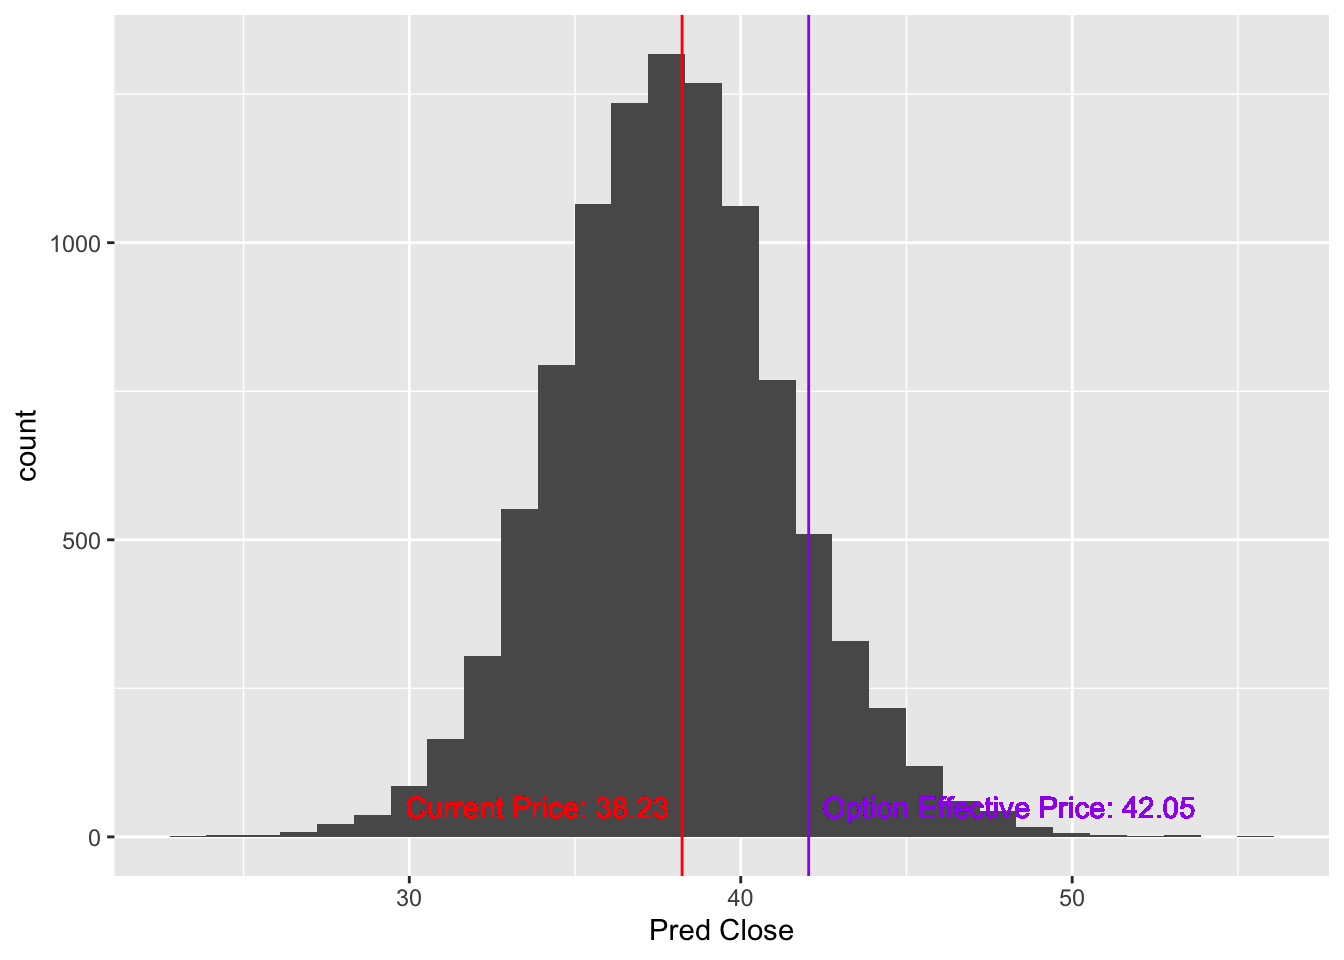
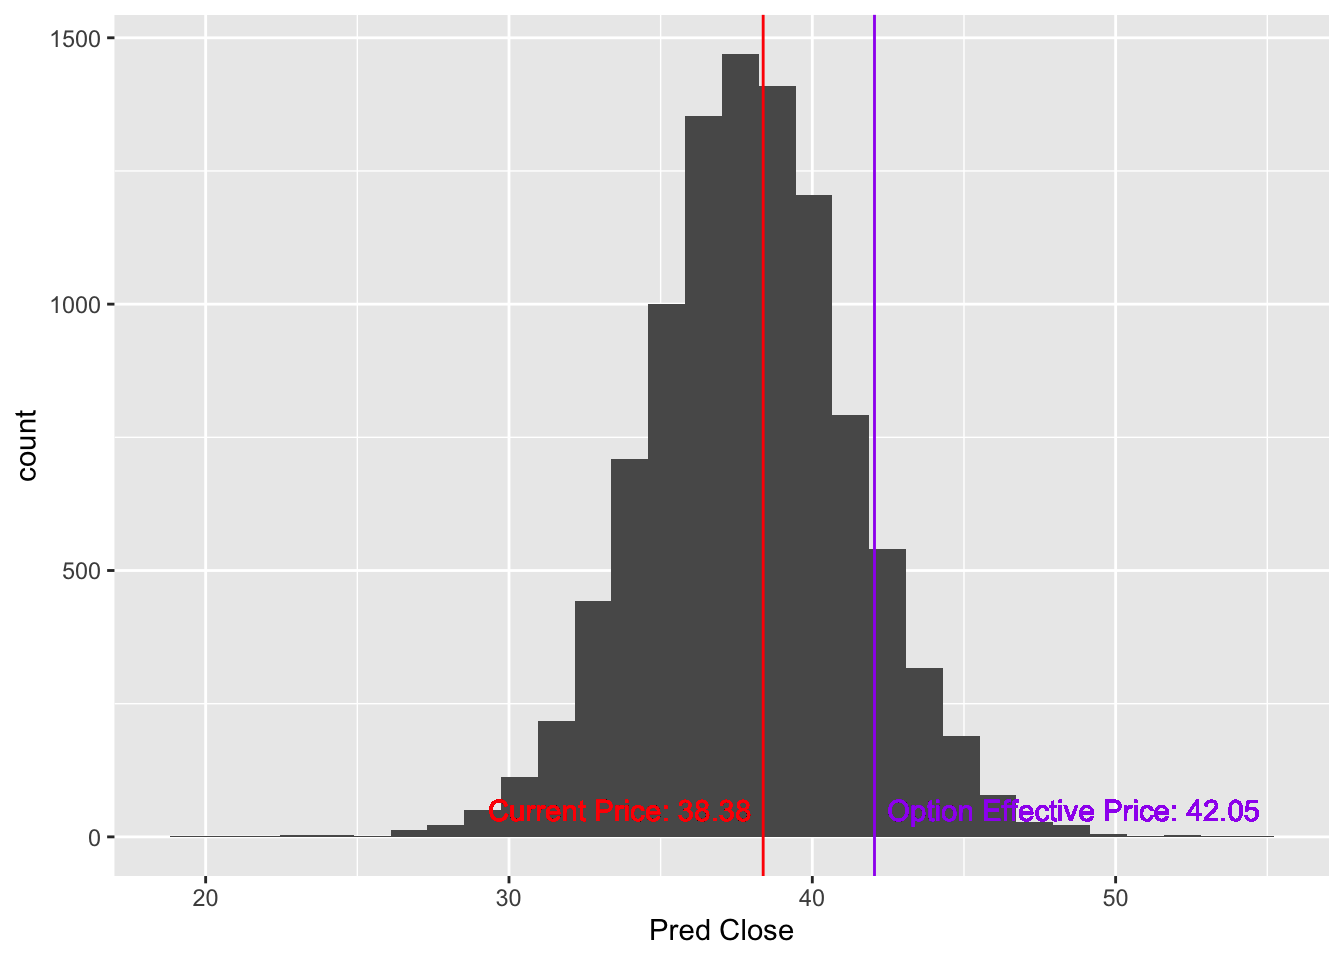
progress on explanations

diff --git a/options_mc/options_mc_book/_book/mc.html b/options_mc/options_mc_book/_book/mc.html
@@ -23,7 +23,7 @@
 <meta name="author" content="Jake Rozran" />
 
 
-<meta name="date" content="2023-04-11" />
+<meta name="date" content="2023-04-12" />
 
   <meta name="viewport" content="width=device-width, initial-scale=1" />
   <meta name="apple-mobile-web-app-capable" content="yes" />
@@ -76,15 +76,10 @@
 <li class="chapter" data-level="2" data-path="ev.html"><a href="ev.html"><i class="fa fa-check"></i><b>2</b> Calculating an Option’s Expected Value</a></li>
 <li class="chapter" data-level="3" data-path="mc.html"><a href="mc.html"><i class="fa fa-check"></i><b>3</b> The Monte Carlo Engine</a>
 <ul>
-<li class="chapter" data-level="3.1" data-path="mc.html"><a href="mc.html#a-quick-reminder-on-what-the-monte-carlo-simulation-does"><i class="fa fa-check"></i><b>3.1</b> A Quick Reminder on what the Monte Carlo Simulation Does</a>
+<li class="chapter" data-level="3.1" data-path="mc.html"><a href="mc.html#effective-price-and-being-in-the-money"><i class="fa fa-check"></i><b>3.1</b> Effective Price and Being In-The-Money</a>
 <ul>
-<li class="chapter" data-level="3.1.1" data-path="mc.html"><a href="mc.html#one-run-of-the-monte-carlo-siumlation"><i class="fa fa-check"></i><b>3.1.1</b> One Run of the Monte Carlo Siumlation</a></li>
-<li class="chapter" data-level="3.1.2" data-path="mc.html"><a href="mc.html#a-full-monte-carlo-simulation"><i class="fa fa-check"></i><b>3.1.2</b> A Full Monte Carlo Simulation</a></li>
-</ul></li>
-<li class="chapter" data-level="3.2" data-path="mc.html"><a href="mc.html#effective-price-and-being-in-the-money"><i class="fa fa-check"></i><b>3.2</b> Effective Price and Being In-The-Money</a>
-<ul>
-<li class="chapter" data-level="3.2.1" data-path="mc.html"><a href="mc.html#why-do-we-care-about-the-effective-price-instead-of-just-strike-price"><i class="fa fa-check"></i><b>3.2.1</b> Why do we care about the effective price (instead of just Strike Price)?</a></li>
-<li class="chapter" data-level="3.2.2" data-path="mc.html"><a href="mc.html#lets-look-at-an-example."><i class="fa fa-check"></i><b>3.2.2</b> Let’s look at an example.</a></li>
+<li class="chapter" data-level="3.1.1" data-path="mc.html"><a href="mc.html#why-do-we-care-about-the-effective-price-instead-of-just-strike-price"><i class="fa fa-check"></i><b>3.1.1</b> Why do we care about the effective price (instead of just Strike Price)?</a></li>
+<li class="chapter" data-level="3.1.2" data-path="mc.html"><a href="mc.html#lets-look-at-an-example."><i class="fa fa-check"></i><b>3.1.2</b> Let’s look at an example.</a></li>
 </ul></li>
 </ul></li>
 <li class="divider"></li>
@@ -109,40 +104,37 @@
             <section class="normal" id="section-">
 <div id="mc" class="section level1 hasAnchor" number="3">
 <h1><span class="header-section-number">3</span> The Monte Carlo Engine<a href="mc.html#mc" class="anchor-section" aria-label="Anchor link to header"></a></h1>
-<div id="a-quick-reminder-on-what-the-monte-carlo-simulation-does" class="section level2 hasAnchor" number="3.1">
-<h2><span class="header-section-number">3.1</span> A Quick Reminder on what the Monte Carlo Simulation Does<a href="mc.html#a-quick-reminder-on-what-the-monte-carlo-simulation-does" class="anchor-section" aria-label="Anchor link to header"></a></h2>
-<p>There’s a few things to note in a Monte Carlo simulation. In this case, we are
-talking about daily changes in a stock price. More specifically for this
-example, we are talking about daily price changes in Comcast stock (CMCSA).</p>
-<p>The Monte Carlo simulation is randomly picking (loosely from history - but that
-is beyond the depth of understanding needed here) what the percentage change in
-stock price will be for each day until the strike price. It is then repeating
-that simulation of what the stock price will do over and over. The beauty of
-this is that we get, hypothetically, a view of all possible outcomes for the
-stock up to the option’s maturity.</p>
-<div id="one-run-of-the-monte-carlo-siumlation" class="section level3 hasAnchor" number="3.1.1">
-<h3><span class="header-section-number">3.1.1</span> One Run of the Monte Carlo Siumlation<a href="mc.html#one-run-of-the-monte-carlo-siumlation" class="anchor-section" aria-label="Anchor link to header"></a></h3>
-<p>Show that here</p>
-</div>
-<div id="a-full-monte-carlo-simulation" class="section level3 hasAnchor" number="3.1.2">
-<h3><span class="header-section-number">3.1.2</span> A Full Monte Carlo Simulation<a href="mc.html#a-full-monte-carlo-simulation" class="anchor-section" aria-label="Anchor link to header"></a></h3>
-<p>Show that here</p>
-<ol style="list-style-type: decimal">
-<li><p>Show that a single price is random</p></li>
-<li><p>Show the whole monte</p></li>
-<li><p>Show the calculation of being in the money</p></li>
-<li><p>Show the probability of being in the money</p></li>
-</ol>
-</div>
-</div>
-<div id="effective-price-and-being-in-the-money" class="section level2 hasAnchor" number="3.2">
-<h2><span class="header-section-number">3.2</span> Effective Price and Being In-The-Money<a href="mc.html#effective-price-and-being-in-the-money" class="anchor-section" aria-label="Anchor link to header"></a></h2>
+<p>I am attempting to predict what the price of any stock will be at an options
+expiration date, some days from now. The Monte Carlo simulation allows me to
+create probabilities to different scenarios. To say that more precisely, the
+simulation allows me to know the probability that an option will be in-the-
+money on its expiration date.</p>
+<p>As an example, I will predict what the price of Comcast (CMCSA) will be 30 days
+from now.</p>
+<p>The simulation is given all of the price change data from CMCSA back to 2000. It
+calculates the daily price changes. The simulation then randomly picks from the
+historical pot of price changes what the stock will do tomorrow and tomorrow and
+tomorrow (and so on, up to the end date 30 days from now).</p>
+<p>INSERT SINGLE PATH GRAPH HERE.</p>
+<p>This gets you a single simulated possible path that stock could take for the
+next 30 days. It is unlikely - probably there is actually 0% chance - that the
+stock will actually follow that exact random path. Here’s the magic of the
+simulation: I then create 100,000 more random paths using the exact same
+technique.</p>
+<p>INSERT FULL MC GRAPH HERE.</p>
+<p>This full world of simulated price paths allows me to see the distribution of
+potential prices at the option expiration date. I now know the average, median,
+high, low, etc. price at the expiration date.</p>
+<p>More beautifully, I can calculate probabilities that a stock price will reach
+or exceed a strike price at a given options expiration date.</p>
+<div id="effective-price-and-being-in-the-money" class="section level2 hasAnchor" number="3.1">
+<h2><span class="header-section-number">3.1</span> Effective Price and Being In-The-Money<a href="mc.html#effective-price-and-being-in-the-money" class="anchor-section" aria-label="Anchor link to header"></a></h2>
 <p>To find the probability that a certain option is in-the-money, we can simply
 count the number of simulations that finish above (below) the effective price
 (the strike plus the premium for the option) and divide by the total simulations
 - this is the beauty of the monte carlo simulations.</p>
-<div id="why-do-we-care-about-the-effective-price-instead-of-just-strike-price" class="section level3 hasAnchor" number="3.2.1">
-<h3><span class="header-section-number">3.2.1</span> Why do we care about the effective price (instead of just Strike Price)?<a href="mc.html#why-do-we-care-about-the-effective-price-instead-of-just-strike-price" class="anchor-section" aria-label="Anchor link to header"></a></h3>
+<div id="why-do-we-care-about-the-effective-price-instead-of-just-strike-price" class="section level3 hasAnchor" number="3.1.1">
+<h3><span class="header-section-number">3.1.1</span> Why do we care about the effective price (instead of just Strike Price)?<a href="mc.html#why-do-we-care-about-the-effective-price-instead-of-just-strike-price" class="anchor-section" aria-label="Anchor link to header"></a></h3>
 <p>It is not enough to find out if an option will only go above its strike price.
 You have to pay to own the option… hence, you are already some money into the
 deal. Since you’ve already paid some money, you need to make that money back,
@@ -153,18 +145,18 @@ money, the higher the premium.</p>
 <p>When the strike is out-of-the-money, the premium will be smaller. The further
 out-of-the-money a strike is, the lower the premium.</p>
 </div>
-<div id="lets-look-at-an-example." class="section level3 hasAnchor" number="3.2.2">
-<h3><span class="header-section-number">3.2.2</span> Let’s look at an example.<a href="mc.html#lets-look-at-an-example." class="anchor-section" aria-label="Anchor link to header"></a></h3>
-<p>CMCSA is currently trading at $38.23. Let’s use a call option
+<div id="lets-look-at-an-example." class="section level3 hasAnchor" number="3.1.2">
+<h3><span class="header-section-number">3.1.2</span> Let’s look at an example.<a href="mc.html#lets-look-at-an-example." class="anchor-section" aria-label="Anchor link to header"></a></h3>
+<p>CMCSA is currently trading at $38.38. Let’s use a call option
 with a strike of $42 that has a premium of $0.05. The effective price of the
 option is <span class="math inline">\(\$42 + \$0.05 = \$42.05\)</span>.</p>
 <p>What is the probability that we meet or exceed that effective price on the
 strike date? To find that out, we count all of the simulations that ended
 with a price greater than or equal to the effective price and divide that by the
 total count of simulations.</p>
-<p>In this case, we have 1,082 simulations that are in-the-money
+<p>In this case, we have 1,090 simulations that are in-the-money
 out of a total 10,000, or
-10.82% chance that this
+10.90% chance that this
 option ends in the money.</p>
 <pre><code>## `stat_bin()` using `bins = 30`. Pick better value with `binwidth`.</code></pre>
 <p><img src="_main_files/figure-html/unnamed-chunk-4-1.png" width="672" /></p>

diff --git a/options_mc/options_mc_book/_book/404.html b/options_mc/options_mc_book/_book/404.html
@@ -23,7 +23,7 @@
 <meta name="author" content="Jake Rozran" />
 
 
-<meta name="date" content="2023-04-11" />
+<meta name="date" content="2023-04-12" />
 
   <meta name="viewport" content="width=device-width, initial-scale=1" />
   <meta name="apple-mobile-web-app-capable" content="yes" />
@@ -76,15 +76,10 @@
 <li class="chapter" data-level="2" data-path="ev.html"><a href="ev.html"><i class="fa fa-check"></i><b>2</b> Calculating an Option’s Expected Value</a></li>
 <li class="chapter" data-level="3" data-path="mc.html"><a href="mc.html"><i class="fa fa-check"></i><b>3</b> The Monte Carlo Engine</a>
 <ul>
-<li class="chapter" data-level="3.1" data-path="mc.html"><a href="mc.html#a-quick-reminder-on-what-the-monte-carlo-simulation-does"><i class="fa fa-check"></i><b>3.1</b> A Quick Reminder on what the Monte Carlo Simulation Does</a>
+<li class="chapter" data-level="3.1" data-path="mc.html"><a href="mc.html#effective-price-and-being-in-the-money"><i class="fa fa-check"></i><b>3.1</b> Effective Price and Being In-The-Money</a>
 <ul>
-<li class="chapter" data-level="3.1.1" data-path="mc.html"><a href="mc.html#one-run-of-the-monte-carlo-siumlation"><i class="fa fa-check"></i><b>3.1.1</b> One Run of the Monte Carlo Siumlation</a></li>
-<li class="chapter" data-level="3.1.2" data-path="mc.html"><a href="mc.html#a-full-monte-carlo-simulation"><i class="fa fa-check"></i><b>3.1.2</b> A Full Monte Carlo Simulation</a></li>
-</ul></li>
-<li class="chapter" data-level="3.2" data-path="mc.html"><a href="mc.html#effective-price-and-being-in-the-money"><i class="fa fa-check"></i><b>3.2</b> Effective Price and Being In-The-Money</a>
-<ul>
-<li class="chapter" data-level="3.2.1" data-path="mc.html"><a href="mc.html#why-do-we-care-about-the-effective-price-instead-of-just-strike-price"><i class="fa fa-check"></i><b>3.2.1</b> Why do we care about the effective price (instead of just Strike Price)?</a></li>
-<li class="chapter" data-level="3.2.2" data-path="mc.html"><a href="mc.html#lets-look-at-an-example."><i class="fa fa-check"></i><b>3.2.2</b> Let’s look at an example.</a></li>
+<li class="chapter" data-level="3.1.1" data-path="mc.html"><a href="mc.html#why-do-we-care-about-the-effective-price-instead-of-just-strike-price"><i class="fa fa-check"></i><b>3.1.1</b> Why do we care about the effective price (instead of just Strike Price)?</a></li>
+<li class="chapter" data-level="3.1.2" data-path="mc.html"><a href="mc.html#lets-look-at-an-example."><i class="fa fa-check"></i><b>3.1.2</b> Let’s look at an example.</a></li>
 </ul></li>
 </ul></li>
 <li class="divider"></li>
